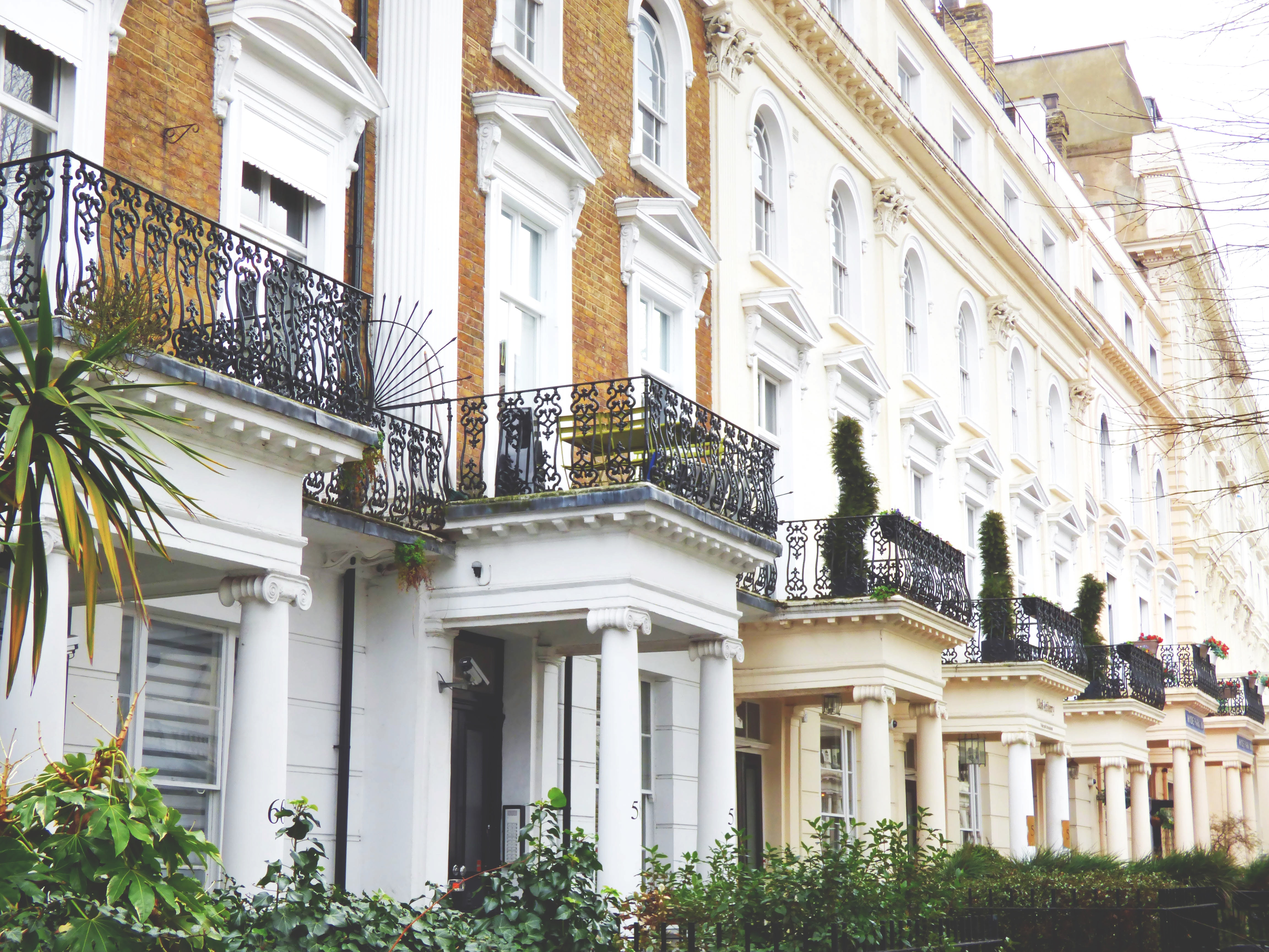
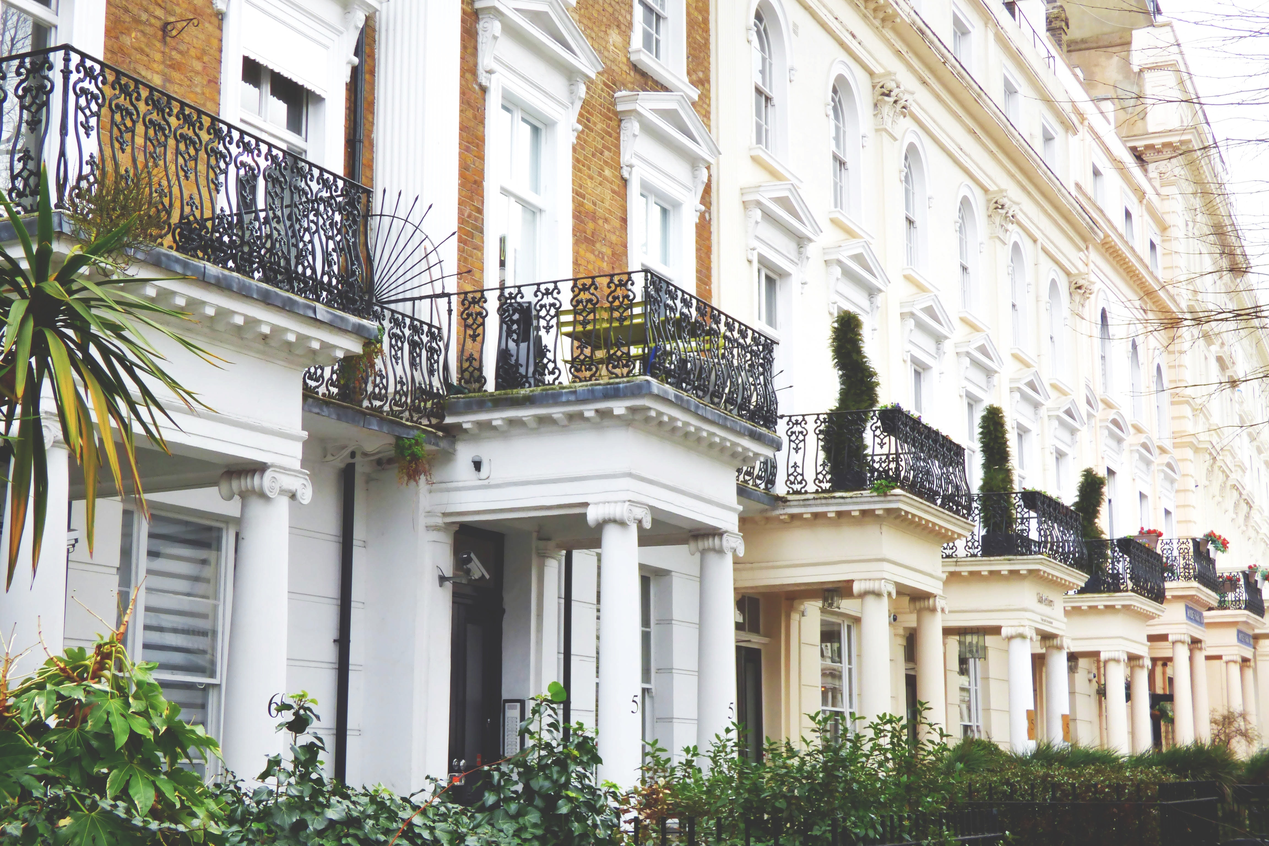
images

diff --git a/local/index.html b/local/index.html
@@ -17,19 +17,26 @@
 
 <body class="darkTheme || lightTheme">
     <header>
-        <img src="Logos/Strip.png" height="50" alt="My Local Area">
-        <div class="toggleContainer"><img src="https://img.icons8.com/material-rounded/24/ffffff/sun.png" height="24px"><label class="switch">
-            <input type="checkbox" class="toggleDarkTheme" checked><span class="slider"></span></label><img src="https://img.icons8.com/material-rounded/24/ffffff/bright-moon.png" height="24px">
+
+        <h1 id="logo"><span class="sans">My</span> <span class="serif">Local</span> <span class="sans">Area</span></h1>
+        <div class="toggleContainer"><img src="https://img.icons8.com/material-rounded/24/ffffff/sun.png" alt="Light theme" height="24"><label class="switch">
+            <input type="checkbox" class="toggleDarkTheme" checked><span class="slider"></span></label><img src="https://img.icons8.com/material-rounded/24/ffffff/bright-moon.png" alt="Dark theme" height="24">
         </div>
     </header>
     <div id="cinemascope">
+        <div id="locatorShadow">
+            <div id="locator">
+                <div id="toolbox">
+                    <h1 id="headline">Unearth the secrets of your neighbourhood</h1>
+                    <h3 id="subtitle">Just enter your postcode to get started</h3>
 
-        <img id="headline" src="Logos/Strip.png" style="height:10%;" alt="My Local Area">
-        <h3 id="subtitle">Unearth the secrets of your neighbourhood</h3>
-        <div class="myPostcode">
-            <input class="input-text" type="text" id="userPostcode" placeholder="Enter your postcode and then...">
-            <input class="input-submit" type="button" id="submitPostcode" value="Explore">
+                    <div class="myPostcode">
+                        <input class="input-text" type="text" id="userPostcode" placeholder="Enter your postcode and then..." required>
+                        <input class="input-submit" type="button" id="submitPostcode" value="Explore">
 
+                    </div>
+                </div>
+            </div>
         </div>
     </div>
     <footer>
@@ -43,6 +50,20 @@
             <li>
                 <a href="help">Help and Support</a>
             </li>
+            <li>
+                •
+            </li>
+            <li>
+                Icons by <a href="https://icons8.com/">Icons8</a>
+            </li>
+
+            <li class="secondaryToggle">
+                •
+            </li>
+            <li class="secondaryToggle">
+                <input type="button" class="secondaryToggleDarkTheme" value="Toggle day/night">
+            </li>
+
 
         </ul>
     </footer>

diff --git a/local/style/big.css b/local/style/big.css
@@ -26,6 +26,8 @@ div#cinemascope {
     animation-iteration-count: infinite;
     border-bottom-left-radius: 10px;
     border-bottom-right-radius: 10px;
+    font-size: 1.5rem;
+    background-blend-mode: saturation;
 }
 
 div#cinemascope * {
@@ -35,11 +37,31 @@ div#cinemascope * {
 div#cinemascope h1,
 div#cinemascope h3 {
     text-shadow: 2px 2px 10px teal;
+    line-height: 1;
 }
 
-img#headline {
-    filter: drop-shadow(2px 2px 2px teal);
-    -webkit-filter: drop-shadow(2px 2px 2px teal);
+div#locator,
+div#locatorShadow {
+    height: 100%;
+    overflow: auto;
+}
+
+@media only screen and (min-width: 800px) {
+    div#locator {
+        background-image: url('https://img.icons8.com/material-rounded/1000/ffffff/map-marker.png');
+        background-repeat: no-repeat;
+        background-size: 35%;
+    }
+    div#locatorShadow {
+        background-image: url('https://img.icons8.com/material-rounded/1000/008080/map-marker.png');
+        background-repeat: no-repeat;
+        background-size: 35%;
+        background-position-y: 30px;
+        background-position-x: 30px;
+    }
+    div#toolbox {
+        padding-left: 50%;
+    }
 }
 
 @keyframes big-bg {
@@ -76,14 +98,26 @@ img#headline {
     0% {
         background-image: url('../images/estate.jpg');
     }
+    15% {
+        background-image: url('../images/pack.jpg');
+    }
     25% {
         background-image: url('../images/pack.jpg');
+    }
+    40% {
+        background-image: url('../images/keys.jpg');
     }
     50% {
         background-image: url('../images/keys.jpg');
     }
+    65% {
+        background-image: url('../images/white.jpg');
+    }
     75% {
         background-image: url('../images/white.jpg');
+    }
+    90% {
+        background-image: url('../images/estate.jpg');
     }
     100% {
         background-image: url('../images/estate.jpg');

diff --git a/local/style/header.css b/local/style/header.css
@@ -11,6 +11,21 @@ header {
     justify-content: space-between;
 }
 
+h1#logo {
+    color: white;
+    font-weight: 500;
+}
+
+span.sans {
+    font-family: 'Jost';
+}
+
+span.serif {
+    font-family: 'Merriweather';
+    font-weight: 900;
+    font-style: oblique;
+}
+
 footer {
     padding-top: 10px;
     padding-bottom: 10px;
@@ -38,6 +53,7 @@ footer ul li a {
 }
 
 .toggleContainer {
+    display: inline;
     align-self: flex-end !important;
 }
 
@@ -45,4 +61,25 @@ footer ul li a {
     vertical-align: middle;
     padding: 5px;
     padding-top: 10px;
+}
+
+.secondaryToggle {
+    display: none;
+}
+
+@media only screen and (max-width:440px) {
+    div.toggleContainer {
+        display: none;
+    }
+    .secondaryToggle {
+        display: initial;
+    }
+    .secondaryToggle input {
+        background-color: #00000000;
+        border: none;
+        color: white;
+        font-size: inherit;
+        text-decoration: underline;
+        padding: 0px 0px 0px 0px;
+    }
 }

diff --git a/local/darklight.js b/local/darklight.js
@@ -3,4 +3,8 @@ window.onload = function() {
     darklight.addEventListener('click', function() {
         document.body.classList.toggle('darkTheme');
     })
+    const darklightagain = document.querySelector('.secondaryToggleDarkTheme');
+    darklightagain.addEventListener('click', function() {
+        document.body.classList.toggle('darkTheme');
+    })
 }

diff --git a/local/style/fonts.css b/local/style/fonts.css
@@ -3,6 +3,7 @@
     font-family: 'Jost', sans-serif;
 }
 
+@import url('https://fonts.googleapis.com/css2?family=Merriweather:ital,wght@1,900&display=swap');
 #headline {
     font-weight: 700;
 }
